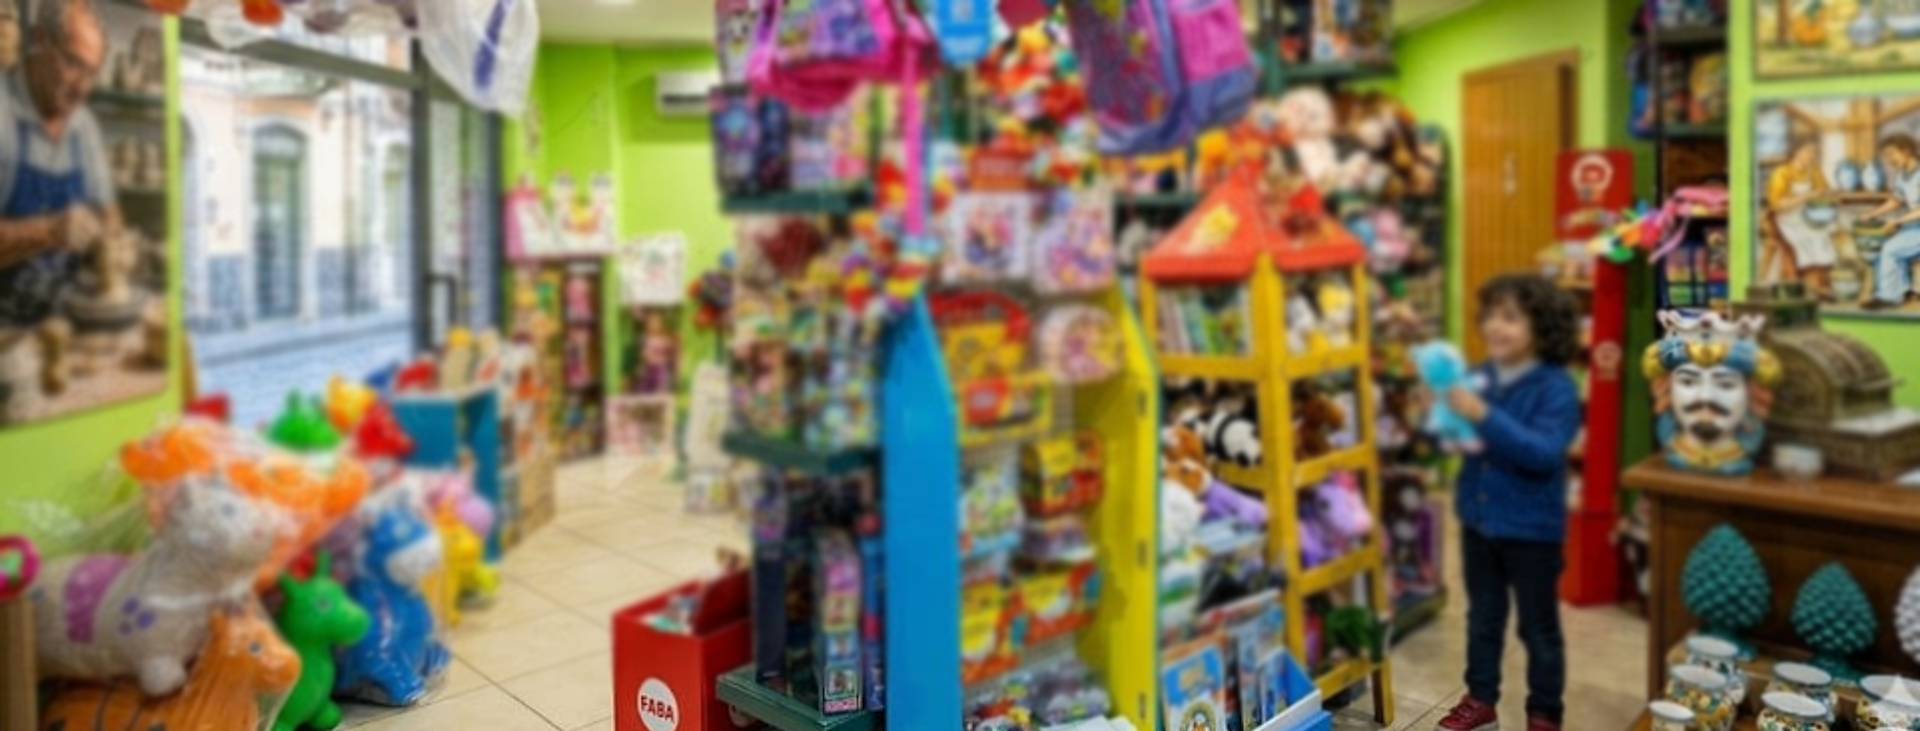
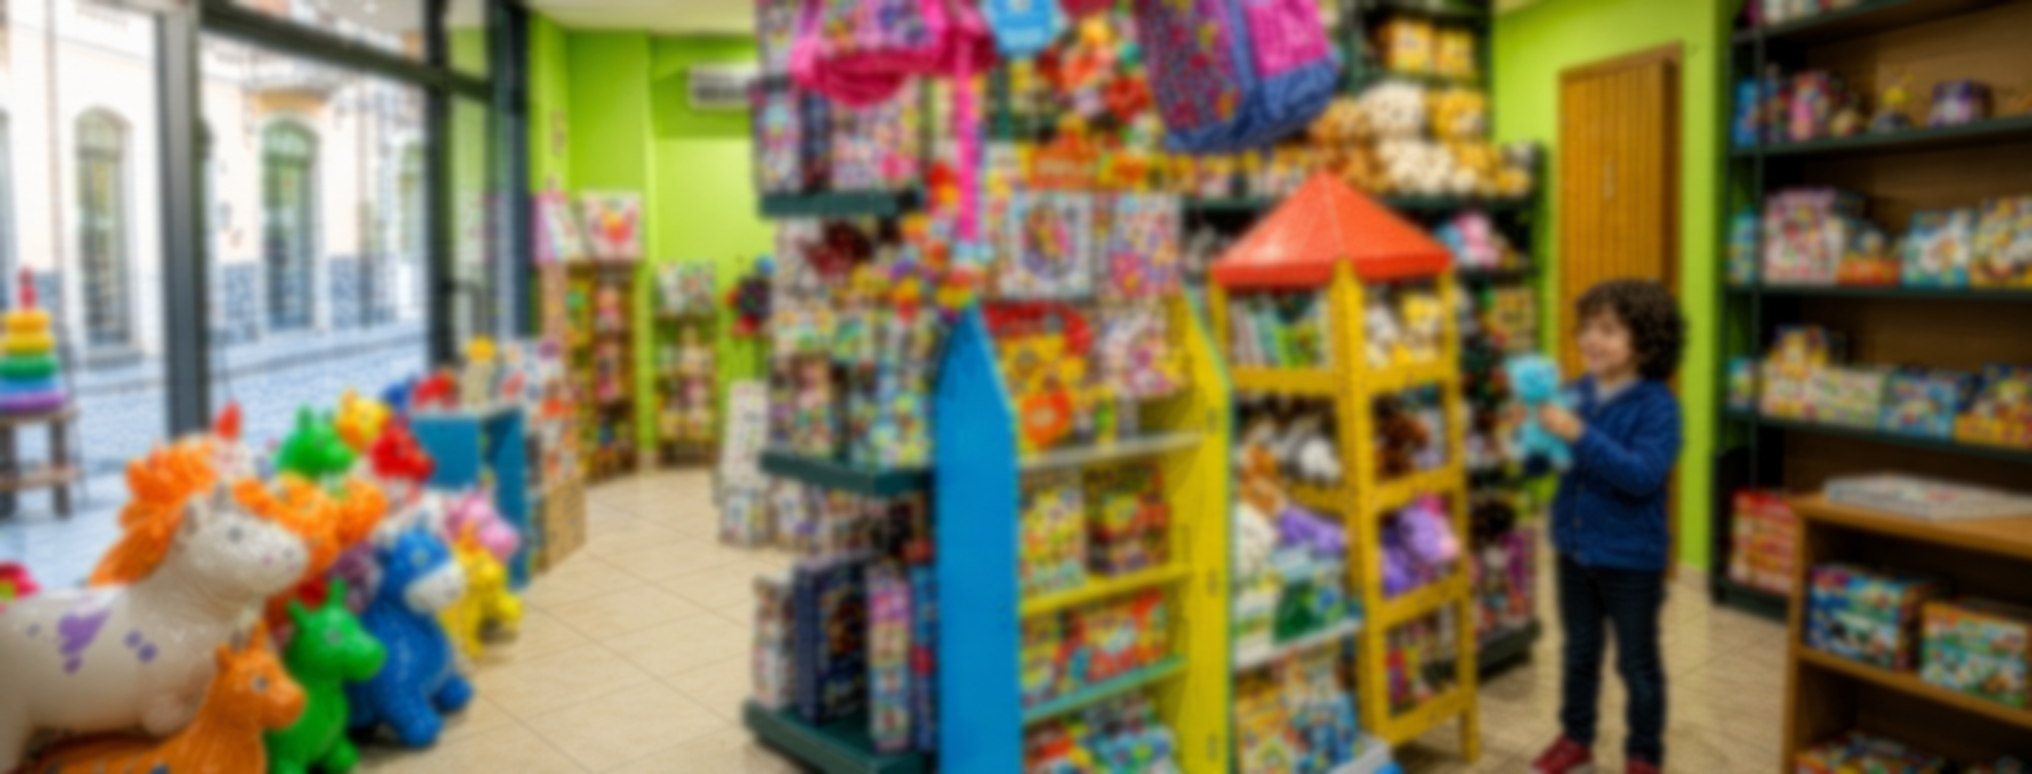
commit

diff --git a/src/app/page.tsx b/src/app/page.tsx
@@ -3,10 +3,10 @@ import { useState } from "react";
 import Image from "next/image";
 import HeadOne from "@/components/main";
 import Card1, { Card2, Card3 } from "@/components/maincards"; 
-import Recensioni from "@/components/recensioni";
 import Carosello from "@/components/nuoviArrivi";
 import { Mail, Loader2, CheckCircle2 } from "lucide-react";
 import { toast } from 'sonner';
+import RecensioniGoogle from "@/components/recensioni";
 
 
 export default function Home() {
@@ -57,8 +57,8 @@ export default function Home() {
         {/* --- IMMAGINE PROMO --- */}
         <div className="w-full my-12 px-4 container mx-auto">
           <img 
-            src="/divider_1.png" 
-            alt="Promozione Giocattoli"
+            src="/divider_prodotti.png" 
+            alt="Prodotti"
             className="w-full h-auto"
             style={{ maxHeight: "400px" }}
           />
@@ -66,10 +66,10 @@ export default function Home() {
 
         <Carosello />
 
-        <div className="w-full my-12 px-4 container mx-auto">
+        <div className="w-full my-5 px-4 container mx-auto">
           <img 
-            src="/divider_2.png" 
-            alt="Promozione Giocattoli"
+            src="/divider_newsletter.png" 
+            alt="Newsletter"
             className="w-full h-auto "
             style={{ maxHeight: "400px" }}
           />
@@ -85,9 +85,6 @@ export default function Home() {
             ) : (
               <>
                 <div className="space-y-4 mb-10">
-                  <h2 className="text-center text-4xl md:text-5xl font-black uppercase tracking-tighter text-zinc-800">
-                    Unisciti alla <span className="text-[#1e73be]">Famiglia</span>
-                  </h2>
                   <p className="text-center text-zinc-400 font-bold uppercase tracking-[0.2em] text-sm md:text-base">
                     Novità, anteprime e sorprese magiche ogni settimana!
                   </p>
@@ -125,8 +122,8 @@ export default function Home() {
 
         <div className="w-full my-12 px-4 container mx-auto">
           <img 
-            src="/divider_3.png" 
-            alt="Promozione Giocattoli"
+            src="/divider_recensioni.png" 
+            alt="Recensioni"
             className="w-full h-auto"
             style={{ maxHeight: "400px" }}
           />
@@ -134,9 +131,8 @@ export default function Home() {
 
         {/* RECENSIONI */}
         <div className="mx-auto w-full max-w-5xl px-10 py-10">
-          <h2 className="text-4xl text-center font-black uppercase tracking-tighter text-[#6239ad]">Cosa dicono di noi?</h2>
         </div>
-        <Recensioni />
+        <RecensioniGoogle />
         
         <div className="w-full my-12 px-4 container mx-auto">
           <img 

diff --git a/src/app/login/page.tsx b/src/app/login/page.tsx
@@ -1,6 +1,7 @@
 "use client"
 import { useState } from "react"
-import { supabase } from "@/lib/supabase"
+// 1. IMPORTA IL CLIENT SSR PER IL BROWSER
+import { createBrowserClient } from "@supabase/ssr" 
 import { useRouter } from "next/navigation"
 import Link from "next/link"
 import { toast } from 'sonner'
@@ -11,10 +12,17 @@ export default function LoginPage() {
   const [loading, setLoading] = useState(false)
   const router = useRouter()
 
+  // 2. INIZIALIZZA IL CLIENT SSR
+  const supabase = createBrowserClient(
+    process.env.NEXT_PUBLIC_SUPABASE_URL!,
+    process.env.NEXT_PUBLIC_SUPABASE_ANON_KEY!
+  )
+
   const handleLogin = async (e: React.FormEvent) => {
     e.preventDefault()
     setLoading(true)
 
+    // Ora questo metodo scriverà automaticamente i COOKIE necessari al middleware
     const { data, error } = await supabase.auth.signInWithPassword({
       email,
       password,
@@ -28,8 +36,14 @@ export default function LoginPage() {
 
     if (data.session) {
       toast.success("Bentornato!")
-      router.push("/")
-      router.refresh() // Forza l'aggiornamento dei componenti server-side (es. Navbar)
+      
+      // 3. IMPORTANTE: router.refresh() assicura che il middleware veda i nuovi cookie
+      router.refresh() 
+      
+      // Aspettiamo un micro-secondo che i cookie vengano settati prima di spostarci
+      setTimeout(() => {
+        router.push("/admin") // O dove preferisci
+      }, 100)
     }
     
     setLoading(false)
@@ -51,6 +65,7 @@ export default function LoginPage() {
               required 
               className="w-full p-4 bg-gray-50 border rounded-2xl outline-none focus:ring-2 focus:ring-[#1e73be] text-black" 
               placeholder="latua@email.it"
+              value={email}
               onChange={(e) => setEmail(e.target.value)}
             />
           </div>
@@ -67,6 +82,7 @@ export default function LoginPage() {
               required 
               className="w-full p-4 bg-gray-50 border rounded-2xl outline-none focus:ring-2 focus:ring-[#1e73be] text-black" 
               placeholder="••••••••"
+              value={password}
               onChange={(e) => setPassword(e.target.value)}
             />
           </div>

diff --git a/src/components/recensioni.tsx b/src/components/recensioni.tsx
@@ -1,16 +1,37 @@
-"use client";
+"use client"
+import { useEffect, useState, useRef } from 'react'
 
-export default function Recensioni() {
+export default function RecensioniGoogle() {
+  const containerRef = useRef<HTMLDivElement>(null);
+  const [loaded, setLoaded] = useState(false);
+
+  useEffect(() => {
+    // 1. Evitiamo caricamenti doppi
+    if (loaded) return;
+
+    // 2. Creiamo lo script manualmente
+    const script = document.createElement('script');
+    script.src = "https://cdn.trustindex.io/loader.js?ddfdea2713455963cd26aa92118";
+    script.async = true;
+    script.defer = true;
+    
+    // 3. Lo appendiamo al contenitore invece che al body
+    if (containerRef.current) {
+      containerRef.current.appendChild(script);
+      setLoaded(true);
+    }
+  }, [loaded]);
+
   return (
-    <section className="py-12 bg-white">
-      <div className="container mx-auto px-4">
+    <section className="py-12 bg-zinc-50 min-h-[400px]">
+      <div className="max-w-6xl mx-auto px-4 text-center">
         
-        {/* Il contenitore di Elfsight */}
-        <div 
-          className="elfsight-app-00de7178-e471-4256-bd5f-fe23cac5fdf7" 
-          data-elfsight-app-lazy={""} 
-        />
+        {/* Il contenitore dove iniettiamo lo script e dove apparirà il widget */}
+        <div ref={containerRef} className="trustindex-container">
+          {/* Questo div interno è per sicurezza */}
+          <div className="ti-widget" data-widget-id="ddfdea2713455963cd26aa92118"></div>
+        </div>
       </div>
     </section>
-  );
-} 
+  )
+}

diff --git a/src/app/layout.tsx b/src/app/layout.tsx
@@ -28,6 +28,8 @@ export const metadata: Metadata = {
 export default function RootLayout({ children }: { children: React.ReactNode }) {
   return (
     <html lang="it" className="scroll-smooth">
+      <head>
+      </head>
       <body className={`${geistSans.variable} ${geistMono.variable} antialiased min-h-screen flex flex-col bg-white text-zinc-900`}>
         <SpeedInsights />
         <Toaster 
@@ -54,10 +56,7 @@ export default function RootLayout({ children }: { children: React.ReactNode }) 
 
         <Footer />
 
-        <Script 
-          src="https://elfsightcdn.com/platform.js" 
-          strategy="afterInteractive" 
-        />
+       
       </body>
     </html>
   );

diff --git a/src/middleware.ts b/src/middleware.ts
@@ -69,7 +69,7 @@ export async function middleware(request: NextRequest) {
     // 3. Se non è admin -> 403
     if (!profile || profile.role !== 'admin') {
       console.log("Accesso Negato: Reindirizzamento a /403")
-      return NextResponse.redirect(new URL('/403', request.url))
+      return NextResponse.redirect(new URL('/forbidden', request.url))
     }
     
     console.log("Accesso Consentito ✅")
